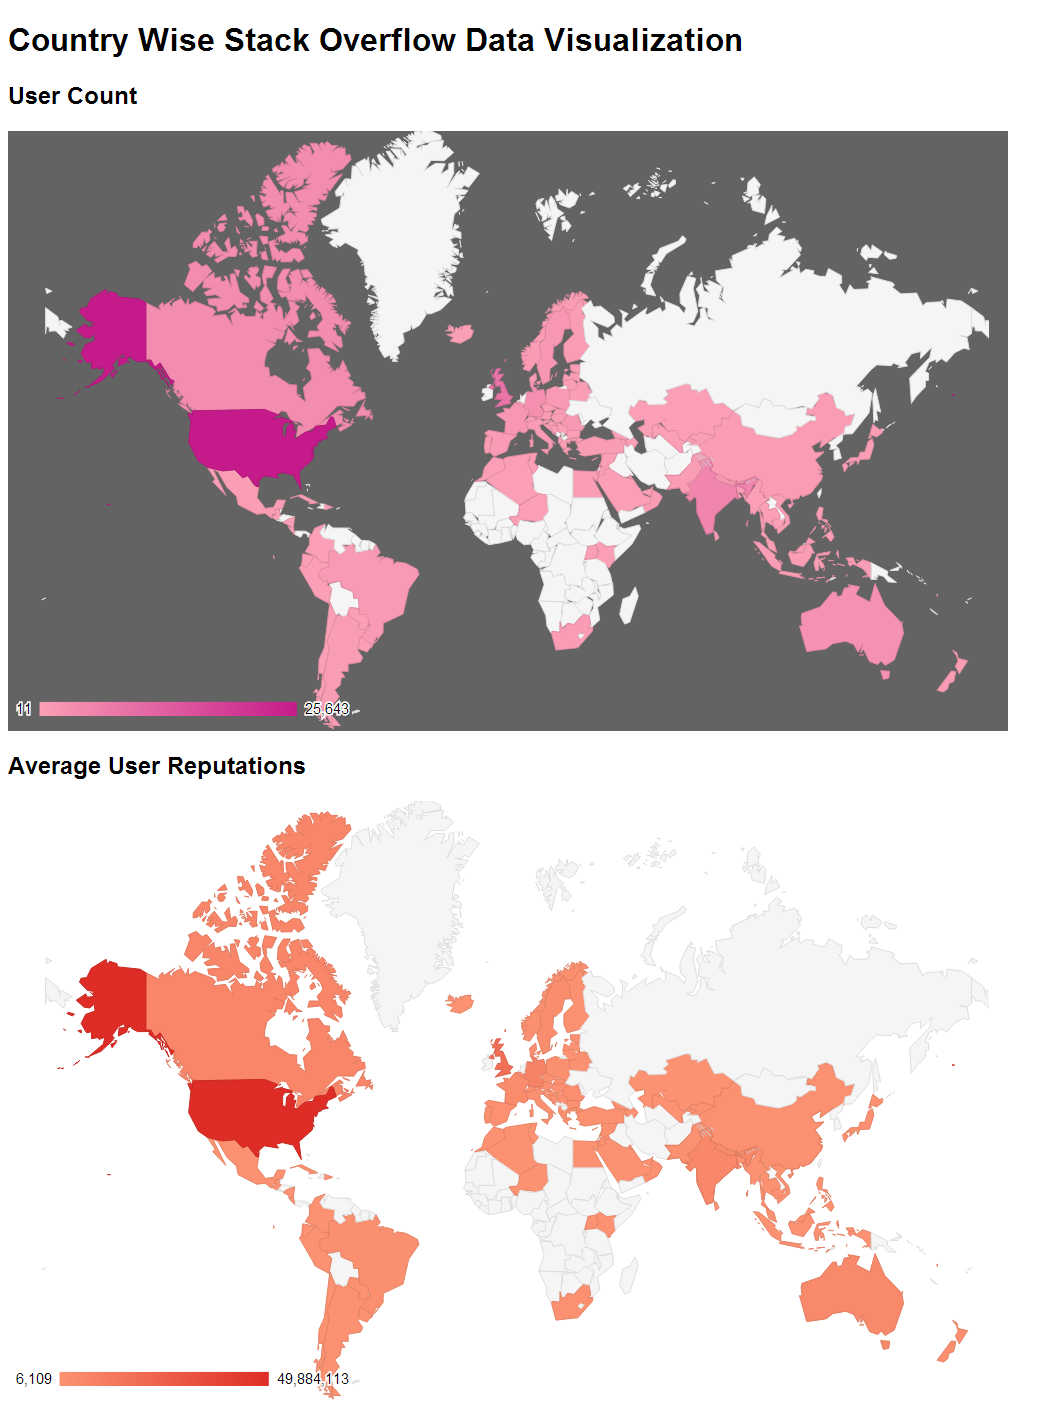
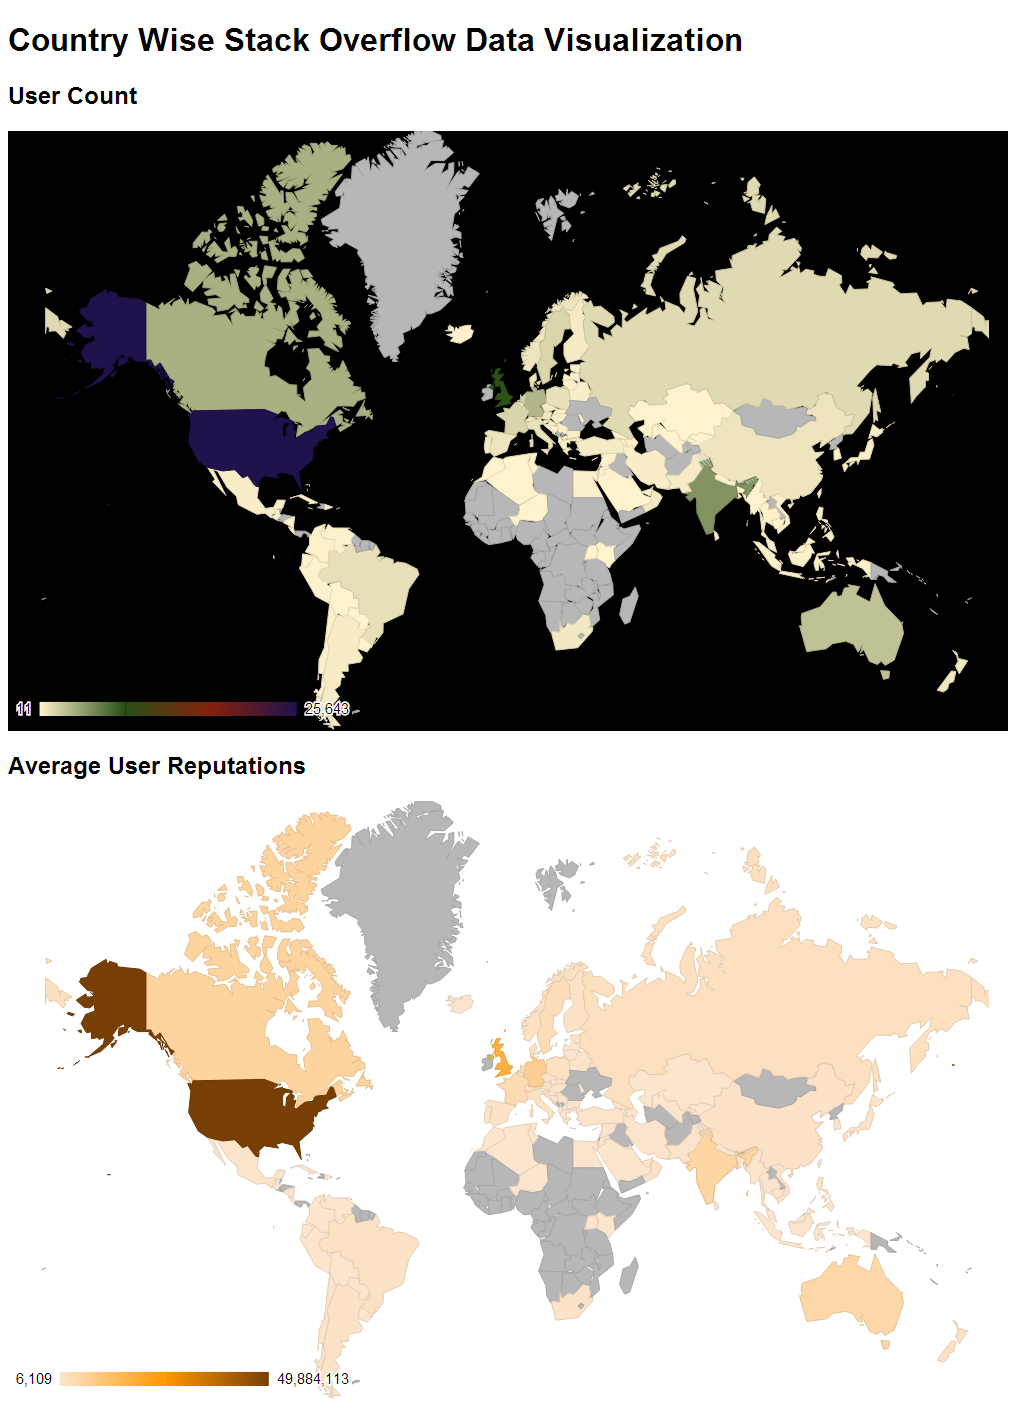
Updated Errors in Google Map Visual
Fixed Country Lookup and improved colors
Updated Screenshot

diff --git a/Submission/googleMap.html b/Submission/googleMap.html
@@ -33,8 +33,10 @@ Apache license (http://www.apache.org/licenses/LICENSE-2.0.html)
       var options1 = {
         width: 1000,
         height: 600,
-        backgroundColor: {fill: '636363'},
-        colorAxis: {colors: ['FA9FB5', 'C51B8A']}
+        backgroundColor: {fill: '000000'},
+        datalessRegionColor:"#b7b7b7",
+        //colorAxis: {colors: ['FA9FB5', 'C51B8A']}
+        colorAxis: {colors: ['FFF2CC', '274E13', '85200C', '20124D']}
       };
       var geochart1 = new google.visualization.GeoChart(
           document.getElementById('visualization-1'));
@@ -47,7 +49,8 @@ Apache license (http://www.apache.org/licenses/LICENSE-2.0.html)
       var options2 = {
         width: 1000,
         height: 600,
-        colorAxis: {colors: ['FC9272','DE2D26']}
+        datalessRegionColor:"#b7b7b7",
+        colorAxis: {colors: ["#fce5cd","#ff9900","#783f04"]}
       };
       var geochart2 = new google.visualization.GeoChart(
           document.getElementById('visualization-2'));
